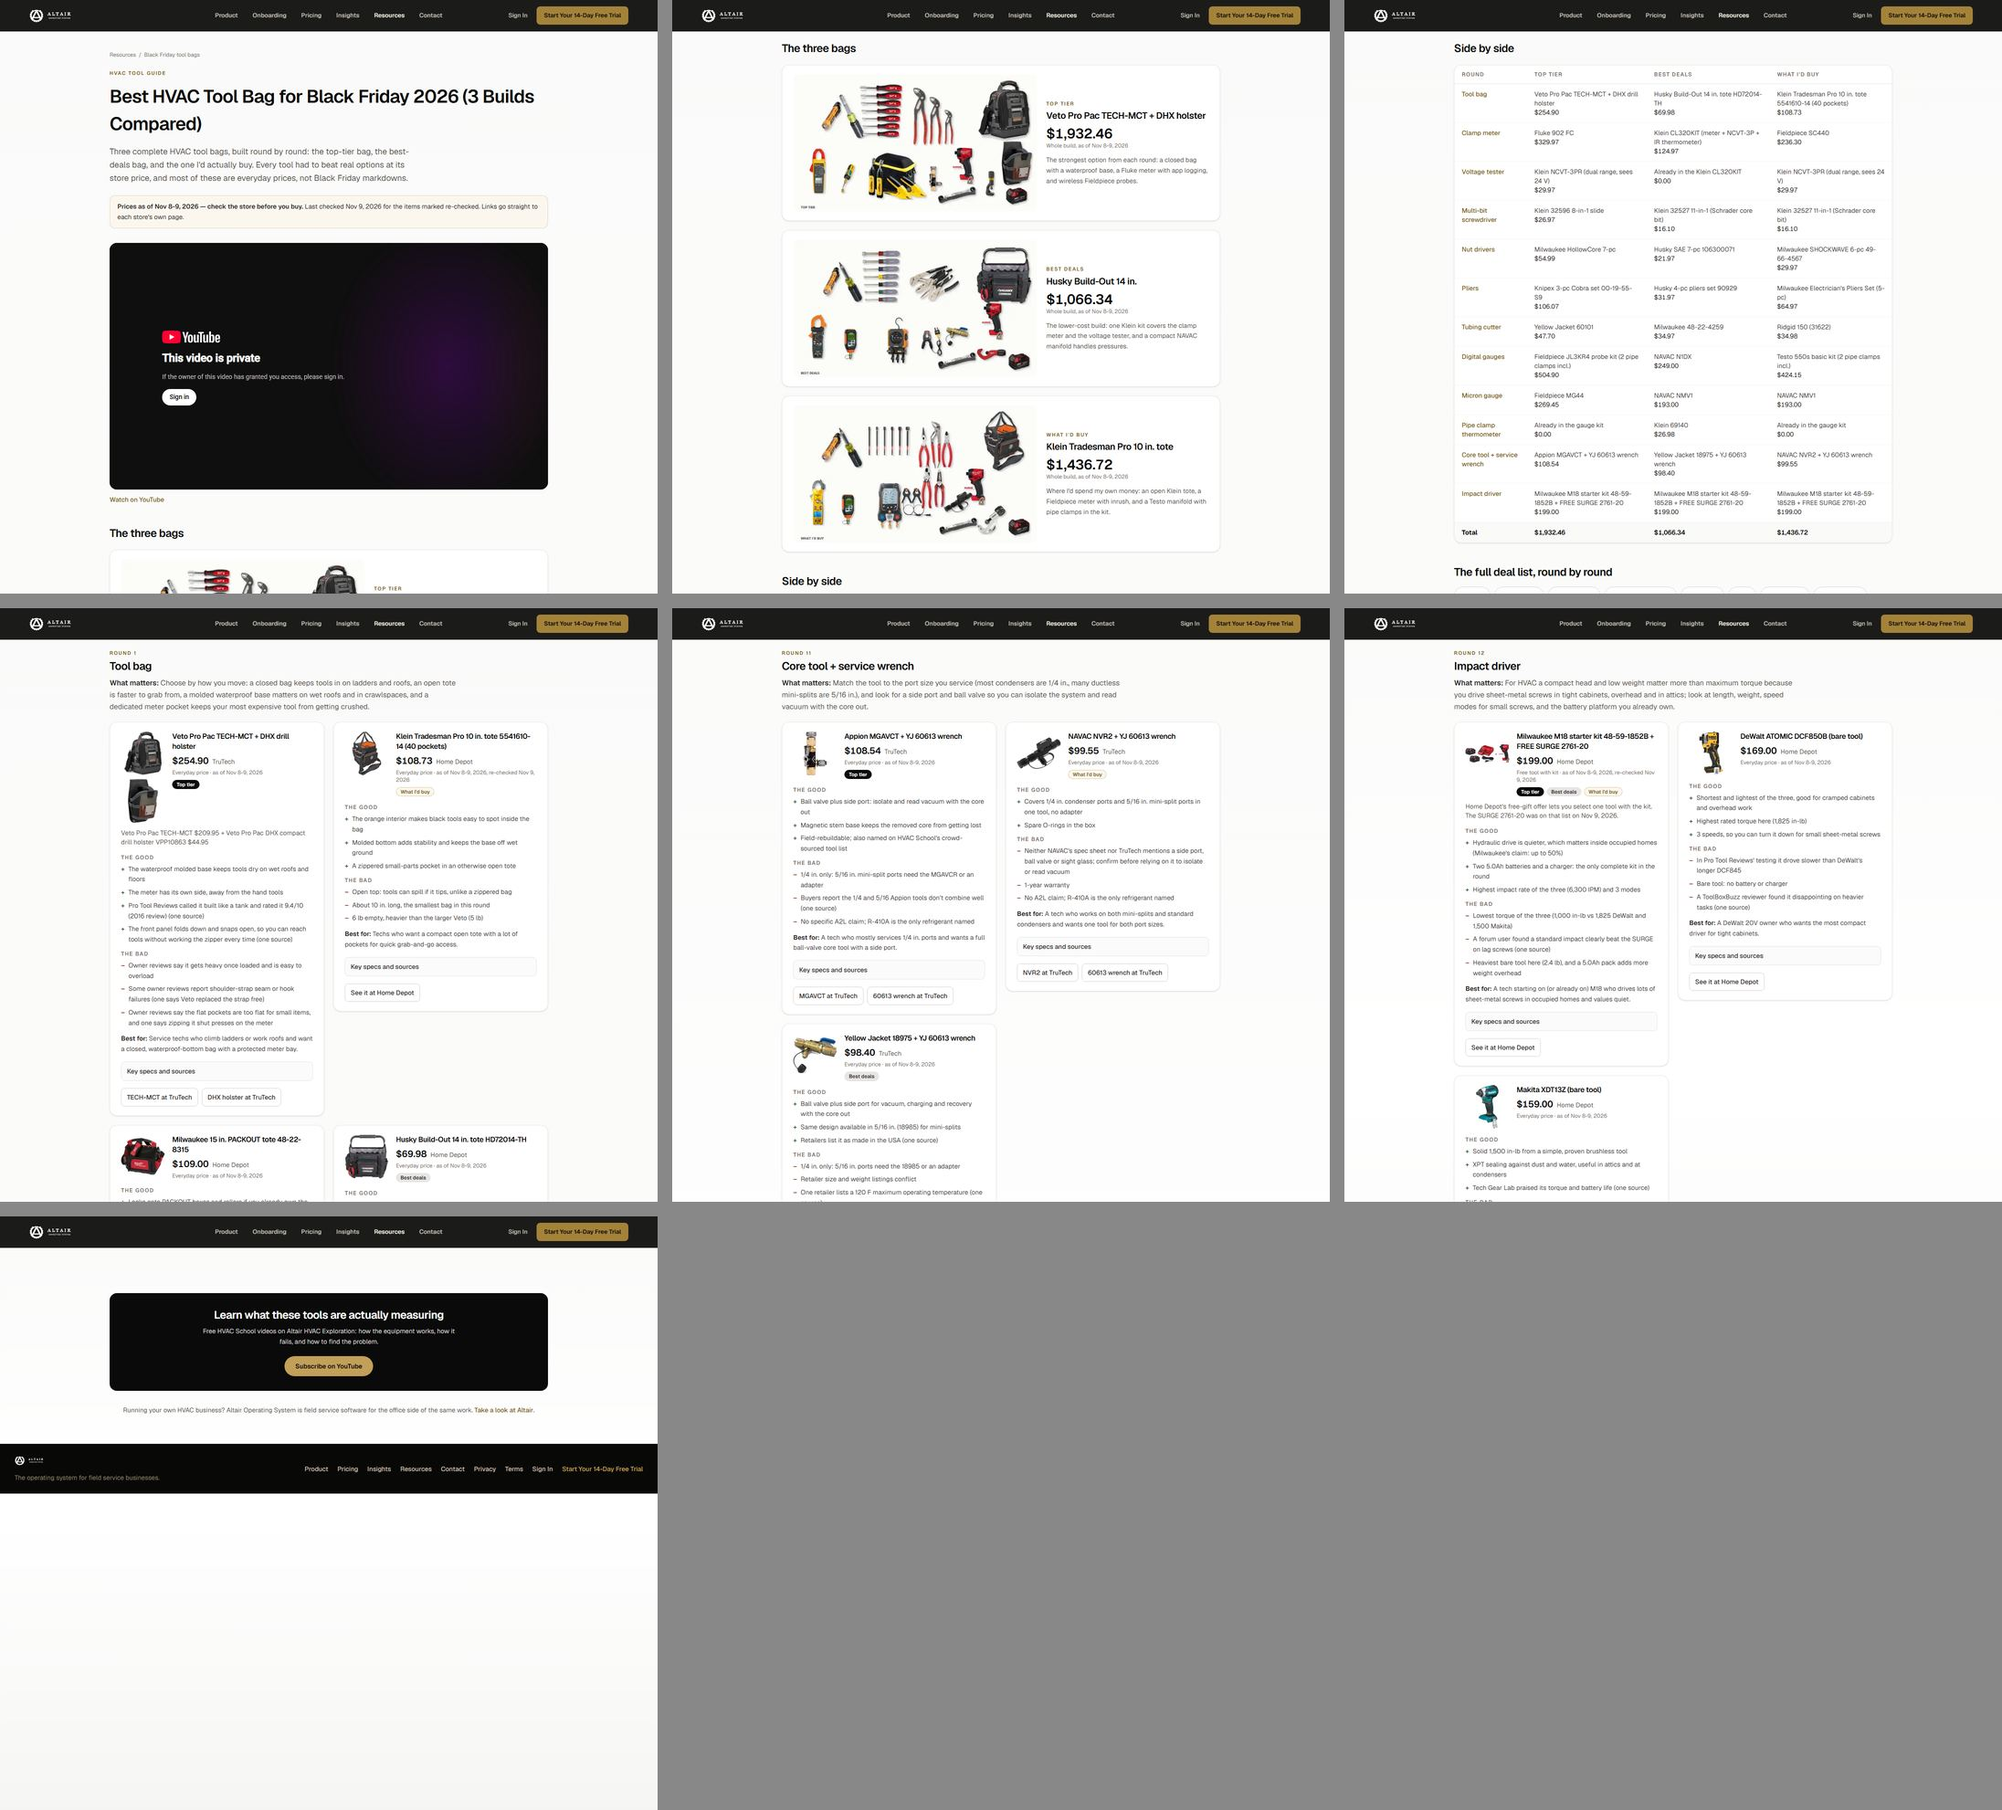
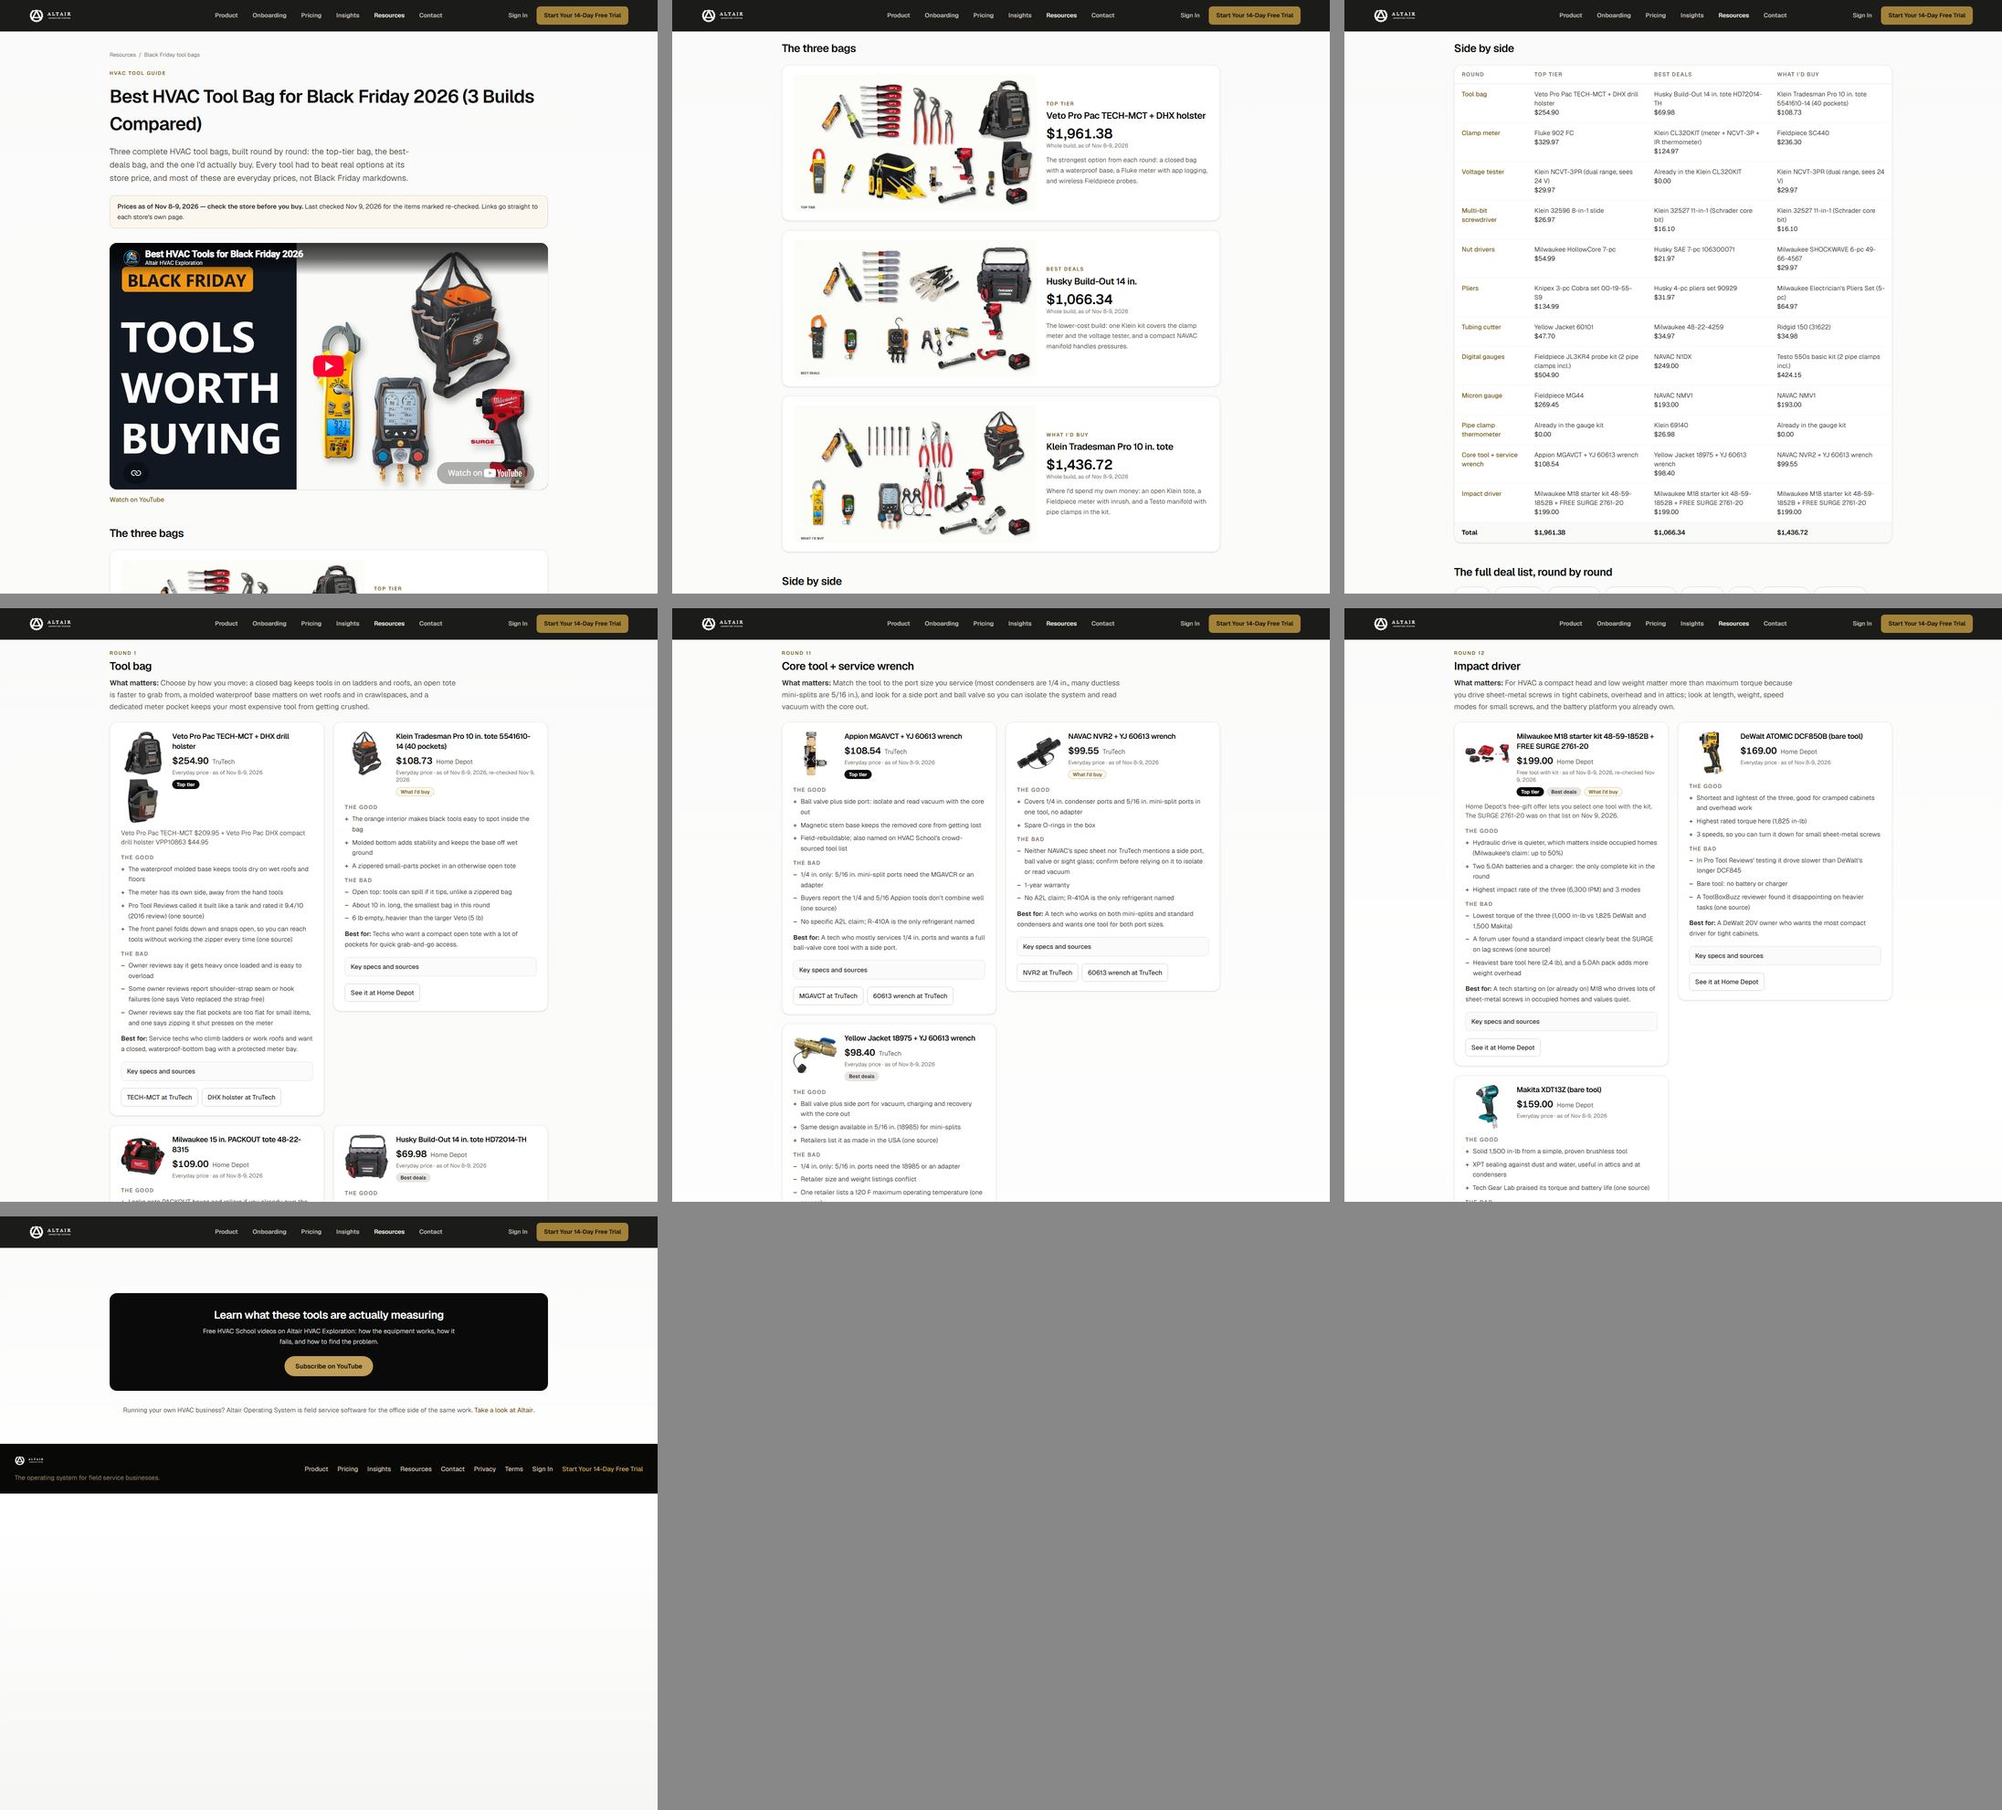
resources: embed the v2 Black Friday tool-bag video
Swap to 4jq0QatBtG4 with its title and upload time from YouTube, and
refresh the screenshots with the final prices.

Changed region(s): [[0.062, 0.1231, 0.2792, 0.277]]

diff --git a/shared/lib/resources/black-friday-tool-bags.ts b/shared/lib/resources/black-friday-tool-bags.ts
@@ -18,12 +18,12 @@ import {
  */
 
 /**
- * The embedded video, and the one id to change when v2 is uploaded. Update the
- * upload date with it: the page's VideoObject structured data reports that date.
+ * The embedded video. To swap it, change the id and the upload date together:
+ * the page's VideoObject structured data reports that date.
  */
-export const TOOL_BAG_VIDEO_ID = "aWug3xyxkPQ";
-export const TOOL_BAG_VIDEO_UPLOAD_DATE = "2026-11-09";
-export const TOOL_BAG_VIDEO_TITLE = "Three HVAC Tool Bags for Black Friday";
+export const TOOL_BAG_VIDEO_ID = "4jq0QatBtG4";
+export const TOOL_BAG_VIDEO_UPLOAD_DATE = "2026-11-08T23:45:49-08:00";
+export const TOOL_BAG_VIDEO_TITLE = "Best HVAC Tools for Black Friday 2026";
 
 export const TOOL_BAG_VIDEO_EMBED_URL = `https://www.youtube-nocookie.com/embed/${TOOL_BAG_VIDEO_ID}?rel=0`;
 export const TOOL_BAG_VIDEO_WATCH_URL = `https://www.youtube.com/watch?v=${TOOL_BAG_VIDEO_ID}`;
